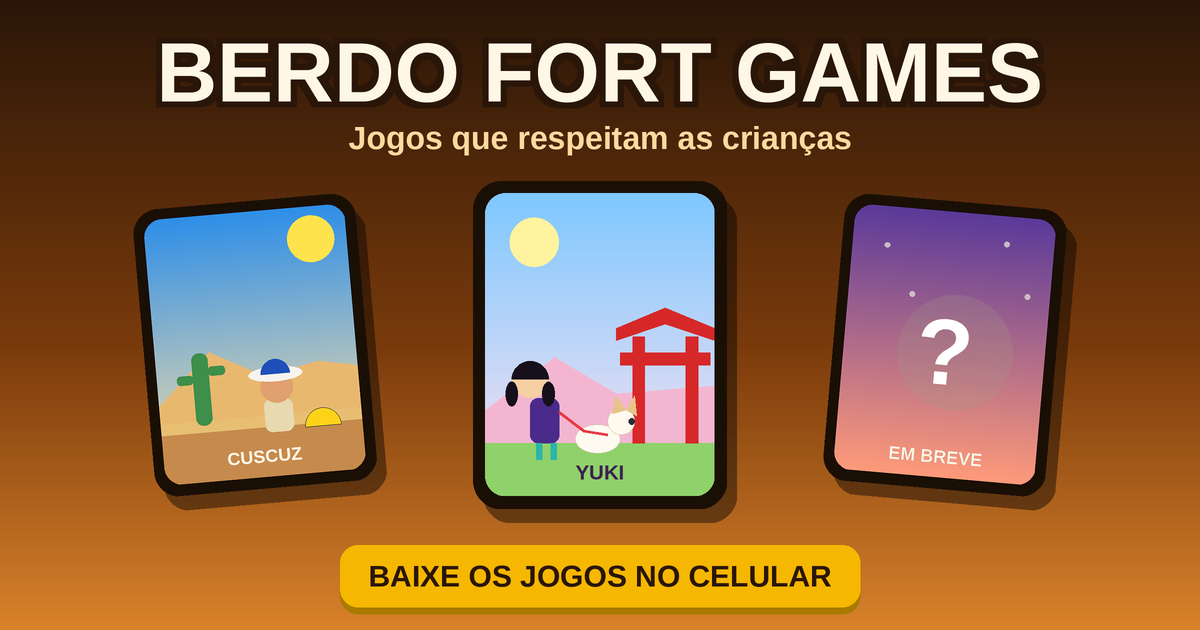
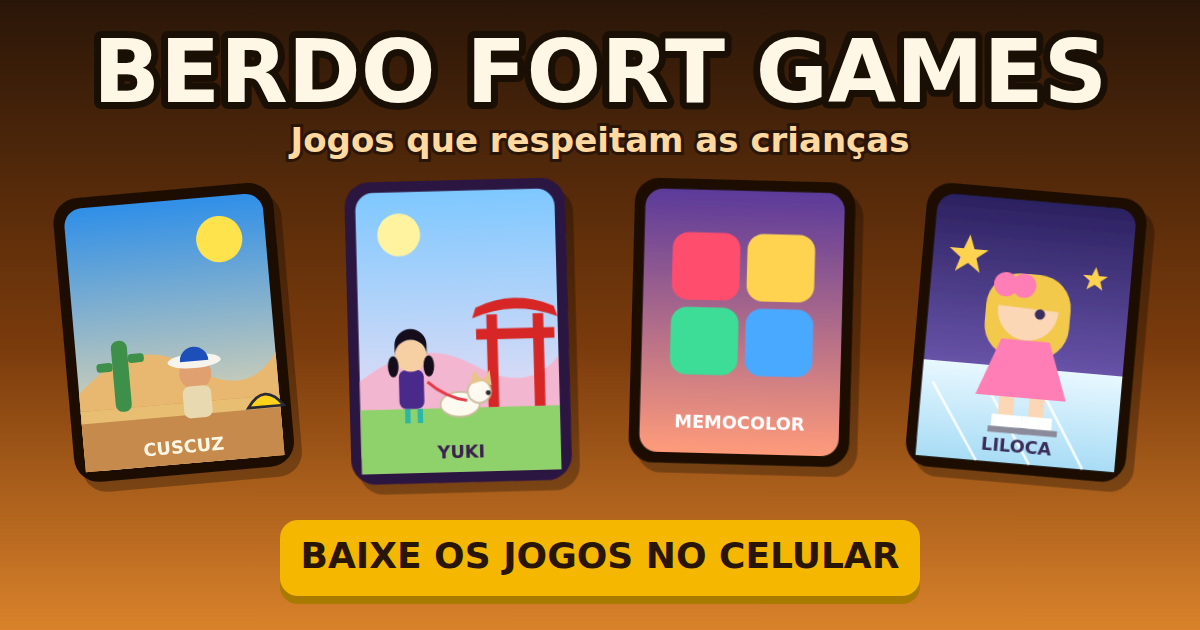
Add files via upload

diff --git a/index.html b/index.html
@@ -9,18 +9,23 @@
   <meta property="og:url" content="https://appcalangodigital.github.io/berdofortgames_baixarjogo/">
   <meta property="og:title" content="Berdo Fort Games - Jogos que respeitam as crianças">
   <meta property="og:description" content="Baixe O Cangaceiro do Cuscuz, O Mundo da Yuki, Memocolor e Liloca Patinadora no celular. Jogos criados para não gerar ansiedade nem vício.">
-  <meta property="og:image" content="https://appcalangodigital.github.io/berdofortgames_baixarjogo/preview.png">
+  <meta property="og:image" content="https://appcalangodigital.github.io/berdofortgames_baixarjogo/preview.png?v=2">
   <meta property="og:image:type" content="image/png">
-  <meta property="og:image:secure_url" content="https://appcalangodigital.github.io/berdofortgames_baixarjogo/preview.png">
+  <meta property="og:image:secure_url" content="https://appcalangodigital.github.io/berdofortgames_baixarjogo/preview.png?v=2">
   <meta property="og:image:width" content="1200">
   <meta property="og:image:height" content="630">
   <meta property="og:image:alt" content="Berdo Fort Games: jogos que respeitam as crianças">
   <meta property="og:site_name" content="Berdo Fort Games">
   <meta property="og:locale" content="pt_BR">
   <meta name="twitter:card" content="summary_large_image">
-  <meta name="twitter:image" content="https://appcalangodigital.github.io/berdofortgames_baixarjogo/preview.png">
+  <meta name="twitter:image" content="https://appcalangodigital.github.io/berdofortgames_baixarjogo/preview.png?v=2">
   <meta name="theme-color" content="#1a0f05">
-  <link rel="icon" href="https://appcalangodigital.github.io/berdofortgames_oxente/icon-512.png">
+  <link rel="manifest" href="manifest.json">
+  <meta name="mobile-web-app-capable" content="yes">
+  <meta name="apple-mobile-web-app-capable" content="yes">
+  <meta name="apple-mobile-web-app-title" content="Berdo Games">
+  <link rel="icon" href="icon-192.png">
+  <link rel="apple-touch-icon" href="icon-192.png">
 
   <!-- Contador de visitas (GoatCounter) -->
   <script data-goatcounter="https://berdofortgamesbaixarjogo.goatcounter.com/count"
@@ -60,6 +65,8 @@
     .btn.azul { background: #7fd0ff; box-shadow: 0 5px 0 #2f7fae, 0 8px 16px rgba(0,0,0,.3); }
     .btn.lilas { background: #c9a0ff; box-shadow: 0 5px 0 #7a4fb5, 0 8px 16px rgba(0,0,0,.3); }
     .btn:active { transform: translateY(3px); box-shadow: 0 2px 0 #a87a00; }
+    .instalar { margin: 0 0 22px; background: #7bdcb5; color: #2a1608; border: 0; cursor: pointer; font-family: inherit; box-shadow: 0 5px 0 #3f9c7a, 0 8px 16px rgba(0,0,0,.3); }
+    .instalar[hidden] { display: none; }
     .dica { margin-top: 18px; font-size: .95rem; color: #ffe8c4; }
   </style>
 </head>
@@ -68,18 +75,19 @@
     <h1>BERDO FORT GAMES</h1>
     <p class="tag">Jogos que respeitam as crianças 🎮</p>
 
-    <!-- Imagem com vários jogos -->
-    <svg class="hero" viewBox="0 0 440 230" role="img" aria-label="Vários jogos da Berdo Fort Games: O Cangaceiro do Cuscuz, O Mundo da Yuki, Memocolor e Liloca Patinadora">
-      <defs>
-        <linearGradient id="fundo" x1="0" y1="0" x2="0" y2="1"><stop offset="0" stop-color="#3a1d0f"/><stop offset="1" stop-color="#7a3b0c"/></linearGradient>
-        <linearGradient id="s1" x1="0" y1="0" x2="0" y2="1"><stop offset="0" stop-color="#2f8fe8"/><stop offset="1" stop-color="#ffe2a8"/></linearGradient>
-        <linearGradient id="s2" x1="0" y1="0" x2="0" y2="1"><stop offset="0" stop-color="#7ec8ff"/><stop offset="1" stop-color="#ffe3f1"/></linearGradient>
-        <linearGradient id="s3" x1="0" y1="0" x2="0" y2="1"><stop offset="0" stop-color="#5b3a9a"/><stop offset="1" stop-color="#ff9b7a"/></linearGradient>
-      </defs>
-      <rect width="440" height="230" fill="url(#fundo)"/>
-      <g fill="#ffd34f" opacity=".5"><circle cx="30" cy="30" r="3"/><circle cx="410" cy="40" r="3"/><circle cx="215" cy="18" r="2.5"/><circle cx="60" cy="205" r="2.5"/><circle cx="385" cy="200" r="3"/></g>
-
-      <g transform="translate(18,34) rotate(-4 60 80)">
+    <!-- Imagem com os 4 jogos -->
+    <svg class="hero" viewBox="0 0 440 190" role="img" aria-label="Os 4 jogos da Berdo Fort Games: O Cangaceiro do Cuscuz, O Mundo da Yuki, Memocolor e Liloca Patinadora">
+<defs>
+<linearGradient id="fundo" x1="0" y1="0" x2="0" y2="1"><stop offset="0" stop-color="#3a1d0f"/><stop offset="1" stop-color="#7a3b0c"/></linearGradient>
+<linearGradient id="s1" x1="0" y1="0" x2="0" y2="1"><stop offset="0" stop-color="#2f8fe8"/><stop offset="1" stop-color="#ffe2a8"/></linearGradient>
+<linearGradient id="s2" x1="0" y1="0" x2="0" y2="1"><stop offset="0" stop-color="#7ec8ff"/><stop offset="1" stop-color="#ffe3f1"/></linearGradient>
+<linearGradient id="s3" x1="0" y1="0" x2="0" y2="1"><stop offset="0" stop-color="#5b3a9a"/><stop offset="1" stop-color="#ff9b7a"/></linearGradient>
+<linearGradient id="s4" x1="0" y1="0" x2="0" y2="1"><stop offset="0" stop-color="#2b2160"/><stop offset="1" stop-color="#8a6fd0"/></linearGradient>
+<linearGradient id="s5" x1="0" y1="0" x2="0" y2="1"><stop offset="0" stop-color="#e8f8ff"/><stop offset="1" stop-color="#a8dcf5"/></linearGradient>
+</defs>
+<rect width="440" height="190" fill="url(#fundo)"/>
+<g fill="#ffd34f" opacity=".5"><circle cx="30" cy="20" r="3"/><circle cx="410" cy="26" r="3"/><circle cx="215" cy="12" r="2.5"/><circle cx="60" cy="176" r="2.5"/><circle cx="385" cy="172" r="3"/></g>
+<g transform="translate(10.6,30) scale(0.78) rotate(-5 62 80)">
         <rect width="124" height="160" rx="14" fill="#1a0f05"/>
         <rect x="6" y="6" width="112" height="148" rx="10" fill="url(#s1)"/>
         <circle cx="92" cy="30" r="13" fill="#ffe34d"/>
@@ -91,8 +99,7 @@
         <path d="M100 126 q10 -14 20 0Z" fill="#ffd21a" stroke="#2b2b33" stroke-width="1.5"/>
         <text x="62" y="148" font-size="10" font-weight="800" text-anchor="middle" fill="#fff7e6" font-family="system-ui,Arial">CUSCUZ</text>
       </g>
-
-      <g transform="translate(158,18)">
+<g transform="translate(118.0,22) scale(0.78) rotate(-1.5 62 80)">
         <rect width="124" height="170" rx="14" fill="#2b1540"/>
         <rect x="6" y="6" width="112" height="158" rx="10" fill="url(#s2)"/>
         <circle cx="30" cy="30" r="12" fill="#fff3a0"/>
@@ -107,15 +114,35 @@
         <path d="M44 113 Q54 122 66 124" stroke="#e63946" stroke-width="1.6" fill="none"/>
         <text x="62" y="156" font-size="10" font-weight="800" text-anchor="middle" fill="#3b2150" font-family="system-ui,Arial">YUKI</text>
       </g>
-
-      <g transform="translate(300,34) rotate(4 60 80)">
+<g transform="translate(225.3,22) scale(0.78) rotate(1.5 62 80)">
         <rect width="124" height="160" rx="14" fill="#1a0f05"/>
         <rect x="6" y="6" width="112" height="148" rx="10" fill="url(#s3)"/>
         <rect x="22" y="30" width="38" height="38" rx="9" fill="#ff4d6d"/><rect x="64" y="30" width="38" height="38" rx="9" fill="#ffd34f"/>
         <rect x="22" y="72" width="38" height="38" rx="9" fill="#3ddc97"/><rect x="64" y="72" width="38" height="38" rx="9" fill="#4aa8ff"/>
         <text x="62" y="140" font-size="10" font-weight="800" text-anchor="middle" fill="#fff" font-family="system-ui,Arial">MEMOCOLOR</text>
       </g>
-    </svg>
+<g transform="translate(332.7,30) scale(0.78) rotate(5 62 80)">
+<rect width="124" height="160" rx="14" fill="#1a0f05"/>
+<rect x="6" y="6" width="112" height="148" rx="10" fill="url(#s4)"/>
+<rect x="6" y="100" width="112" height="54" fill="url(#s5)"/>
+<g fill="#ffd34f"><path d="M26 28 l3 8 8 0 -6.5 5 2.5 8 -7 -5 -7 5 2.5 -8 -6.5 -5 8 0z"/><path d="M98 40 l2 5 5 0 -4 3 1.5 5 -4.5 -3 -4.5 3 1.5 -5 -4 -3 5 0z"/></g>
+<g stroke="#fff" stroke-width="1.5" opacity=".85"><path d="M12 112 L40 154 M40 108 L70 154 M70 106 L100 154"/></g>
+<g transform="translate(62,88) scale(1.7)">
+<rect x="-14" y="-24" width="28" height="28" rx="11" fill="#f2c94c"/>
+<rect x="-7" y="14" width="5" height="10" fill="#fbd7b5"/><rect x="3" y="14" width="5" height="10" fill="#fbd7b5"/>
+<rect x="-9" y="23" width="10" height="4" fill="#fff"/><rect x="1" y="23" width="10" height="4" fill="#fff"/>
+<rect x="-10" y="27" width="13" height="2" fill="#8a8a9a"/><rect x="0" y="27" width="13" height="2" fill="#8a8a9a"/>
+<path d="M-8 -2 L8 -2 L15 17 L-15 17Z" fill="#ff7eb6"/>
+<circle cx="0" cy="-12" r="10" fill="#fbd7b5"/>
+<path d="M-11 -13 A11 11 0 0 1 11 -12.2Z" fill="#f2c94c"/>
+<circle cx="4" cy="-11" r="1.7" fill="#3a2e5c"/>
+<circle cx="-8" cy="-20" r="4" fill="#ff7eb6"/><circle cx="-2" cy="-20" r="4" fill="#ff7eb6"/>
+</g>
+<text x="62" y="148" font-size="10" font-weight="800" text-anchor="middle" fill="#3a2e5c" font-family="system-ui,DejaVu Sans,Arial">LILOCA</text>
+</g>
+</svg>
+
+    <button id="instalar" class="btn instalar">📲 INSTALAR O APP</button>
 
     <h2>ESCOLHA O SEU JOGO</h2>
 
@@ -155,7 +182,7 @@
       </div>
     </section>
 
-    <p class="dica">Abra no celular e toque em "Instalar no celular".</p>
+    <p class="dica">Instale este app para ter todos os jogos num só lugar.</p>
   </main>
 
   <script>
@@ -172,6 +199,21 @@
         } catch (err) { /* se der erro, o link abre normalmente */ }
       });
     });
+  
+    // Instalar este app (tela principal dos jogos)
+    var DP = null, bi = document.getElementById('instalar');
+    window.addEventListener('beforeinstallprompt', function (e) { e.preventDefault(); DP = e; });
+    window.addEventListener('appinstalled', function () { bi.hidden = true; });
+    if ((window.matchMedia && matchMedia('(display-mode: standalone)').matches) || navigator.standalone) bi.hidden = true;
+    bi.addEventListener('click', function () {
+      try { if (window.goatcounter && window.goatcounter.count) window.goatcounter.count({ path: 'instalar-app-berdo', title: 'Instalar app Berdo Fort Games', event: true }); } catch (err) {}
+      if (DP) { DP.prompt(); DP = null; }
+      else {
+        var ios = /iphone|ipad|ipod/i.test(navigator.userAgent);
+        alert(ios ? 'No iPhone: toque em Compartilhar (quadrado com seta) e depois em "Adicionar à Tela de Início".' : 'Toque nos 3 pontinhos do navegador e depois em "Instalar app" ou "Adicionar à tela inicial".');
+      }
+    });
+    if ('serviceWorker' in navigator) window.addEventListener('load', function () { navigator.serviceWorker.register('sw.js').catch(function () {}); });
   </script>
 </body>
 </html>

diff --git a/sw.js b/sw.js
@@ -1,0 +1,6 @@
+var CACHE='berdo-hub-v1';
+var FILES=['./','index.html','manifest.json','icon-192.png','icon-512.png'];
+self.addEventListener('install',function(e){e.waitUntil(caches.open(CACHE).then(function(c){return c.addAll(FILES)}));self.skipWaiting()});
+self.addEventListener('activate',function(e){e.waitUntil(caches.keys().then(function(k){return Promise.all(k.filter(function(n){return n!==CACHE}).map(function(n){return caches.delete(n)}))}));self.clients.claim()});
+self.addEventListener('fetch',function(e){if(e.request.method!=='GET'||new URL(e.request.url).origin!==location.origin)return;
+e.respondWith(fetch(e.request).then(function(r){var c=r.clone();caches.open(CACHE).then(function(x){x.put(e.request,c)});return r}).catch(function(){return caches.match(e.request).then(function(m){return m||caches.match('index.html')})}))});
